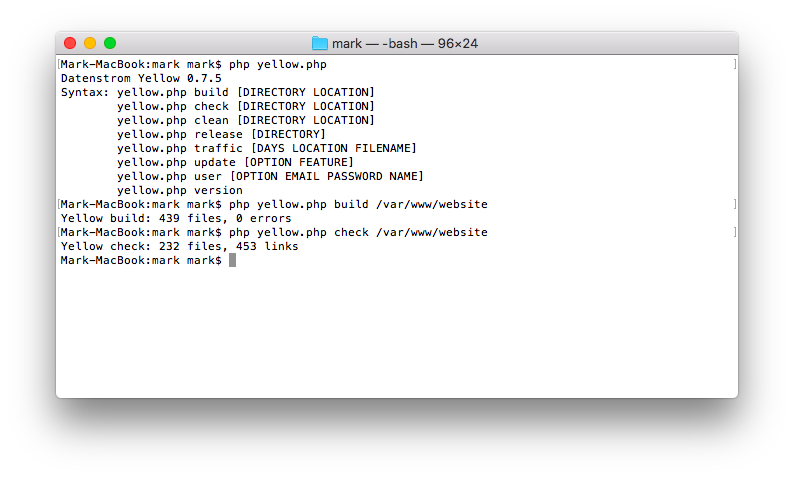
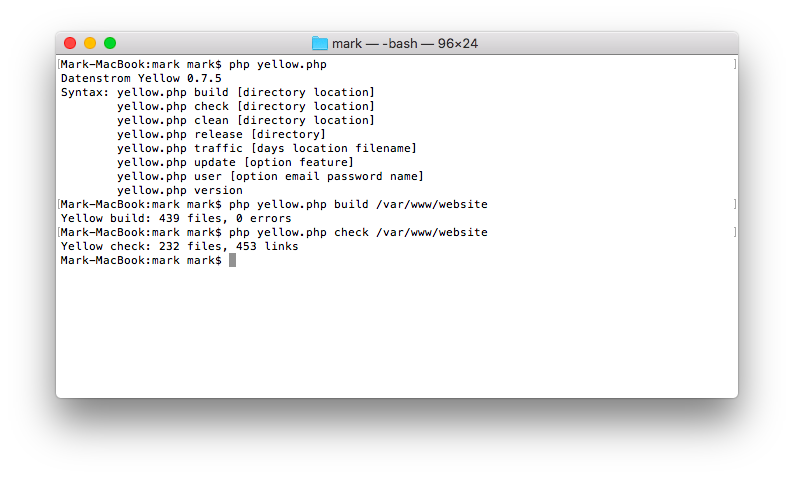
Updated command line

Changed region(s): [[0.3023, 0.1757, 0.5441, 0.3808]]

diff --git a/command/command.php b/command/command.php
@@ -5,7 +5,7 @@
 
 class YellowCommand
 {
-	const VERSION = "0.7.7";
+	const VERSION = "0.7.8";
 	var $yellow;					//access to API
 	var $files;						//number of files
 	var $links;						//number of links
@@ -38,9 +38,9 @@ class YellowCommand
 	// Handle command help
 	function onCommandHelp()
 	{
-		$help .= "build [DIRECTORY LOCATION]\n";
-		$help .= "check [DIRECTORY LOCATION]\n";
-		$help .= "clean [DIRECTORY LOCATION]\n";
+		$help .= "build [directory location]\n";
+		$help .= "check [directory location]\n";
+		$help .= "clean [directory location]\n";
 		$help .= "version\n";
 		return $help;
 	}

diff --git a/edit/edit.php b/edit/edit.php
@@ -5,7 +5,7 @@
 
 class YellowEdit
 {
-	const VERSION = "0.7.26";
+	const VERSION = "0.7.27";
 	var $yellow;			//access to API
 	var $response;			//web response
 	var $users;				//user accounts
@@ -145,7 +145,7 @@ class YellowEdit
 	// Handle command help
 	function onCommandHelp()
 	{
-		return "user [OPTION EMAIL PASSWORD NAME]\n";
+		return "user [option email password name]\n";
 	}
 
 	// Update user account

diff --git a/traffic/traffic.php b/traffic/traffic.php
@@ -5,7 +5,7 @@
 
 class YellowTraffic
 {
-	const VERSION = "0.7.6";
+	const VERSION = "0.7.7";
 	var $yellow;			//access to API
 	var $days;				//number of days
 	var $views;				//number of views
@@ -24,7 +24,7 @@ class YellowTraffic
 	// Handle command help
 	function onCommandHelp()
 	{
-		return "traffic [DAYS LOCATION FILENAME]\n";
+		return "traffic [days location filename]\n";
 	}
 	
 	// Handle command

diff --git a/update/update.php b/update/update.php
@@ -5,7 +5,7 @@
 
 class YellowUpdate
 {
-	const VERSION = "0.7.15";
+	const VERSION = "0.7.16";
 	var $yellow;					//access to API
 	var $updates;					//number of updates
 	
@@ -153,7 +153,7 @@ class YellowUpdate
 	// Handle command help
 	function onCommandHelp()
 	{
-		return "update [OPTION FEATURE]";
+		return "update [option feature]";
 	}
 	
 	// Clean downloads

diff --git a/release/release.php b/release/release.php
@@ -5,7 +5,7 @@
 
 class YellowRelease
 {
-	const VERSION = "0.7.10";
+	const VERSION = "0.7.11";
 
 	// Handle plugin initialisation
 	function onLoad($yellow)
@@ -20,7 +20,7 @@ class YellowRelease
 	// Handle command help
 	function onCommandHelp()
 	{
-		return "release [DIRECTORY]\n";
+		return "release [directory]\n";
 	}
 	
 	// Handle command

diff --git a/command/README.md b/command/README.md
@@ -1,4 +1,4 @@
-Command plugin 0.7.7
+Command plugin 0.7.8
 =====================
 Run commands in a terminal window.
 
@@ -25,25 +25,25 @@ The following commands are available:
 **php yellow.php**  
 Show available commands
 
-**php yellow.php build [DIRECTORY LOCATION]**  
+**php yellow.php build [directory location]**  
 Build static website
 
-**php yellow.php check [DIRECTORY LOCATION]**  
+**php yellow.php check [directory location]**  
 Check static files for broken links
 
-**php yellow.php clean [DIRECTORY LOCATION]**  
+**php yellow.php clean [directory location]**  
 Clean static files
 
-**php yellow.php release [DIRECTORY]**  
+**php yellow.php release [directory]**  
 Create software releases with the [release plugin](https://github.com/datenstrom/yellow-plugins/tree/master/release)
 
-**php yellow.php traffic [DAYS LOCATION FILENAME]**  
+**php yellow.php traffic [days location filename]**  
 Create traffic analytics with the [traffic plugin](https://github.com/datenstrom/yellow-plugins/tree/master/traffic)
 
-**php yellow.php update [OPTION FEATURE]**  
+**php yellow.php update [option feature]**  
 Update website with the [update plugin](https://github.com/datenstrom/yellow-plugins/tree/master/update)
 
-**php yellow.php user [OPTION EMAIL PASSWORD NAME]**  
+**php yellow.php user [option email password name]**  
 Update user account with the [edit plugin](https://github.com/datenstrom/yellow-plugins/tree/master/edit)
 
 **php yellow.php version**  
@@ -57,13 +57,13 @@ Showing available commands:
 
 ~~~~
 Datenstrom Yellow 0.7.5
-Syntax: yellow.php build [DIRECTORY LOCATION]
-        yellow.php check [DIRECTORY LOCATION]
-        yellow.php clean [DIRECTORY LOCATION]
-        yellow.php release [DIRECTORY]
-        yellow.php traffic [DAYS LOCATION FILENAME]
-        yellow.php update [OPTION FEATURE]
-        yellow.php user [OPTION EMAIL PASSWORD NAME]
+Syntax: yellow.php build [directory location]
+        yellow.php check [directory location]
+        yellow.php clean [directory location]
+        yellow.php release [directory]
+        yellow.php traffic [days location filename]
+        yellow.php update [option feature]
+        yellow.php user [option email password name]
         yellow.php version
 ~~~~
 

diff --git a/edit/README.md b/edit/README.md
@@ -1,4 +1,4 @@
-Edit plugin 0.7.26
+Edit plugin 0.7.27
 ==================
 Edit your website in a web browser. [See demo](https://developers.datenstrom.se).
 

diff --git a/traffic/README.md b/traffic/README.md
@@ -1,4 +1,4 @@
-Traffic plugin 0.7.6
+Traffic plugin 0.7.7
 ====================
 Create traffic analytics from web server logfiles.
 

diff --git a/update/README.md b/update/README.md
@@ -1,4 +1,4 @@
-Update plugin 0.7.15
+Update plugin 0.7.16
 ===================
 Keep your website up to date.
 

diff --git a/release/README.md b/release/README.md
@@ -1,4 +1,4 @@
-Release plugin 0.7.10
+Release plugin 0.7.11
 ====================
 Create software releases.
 
